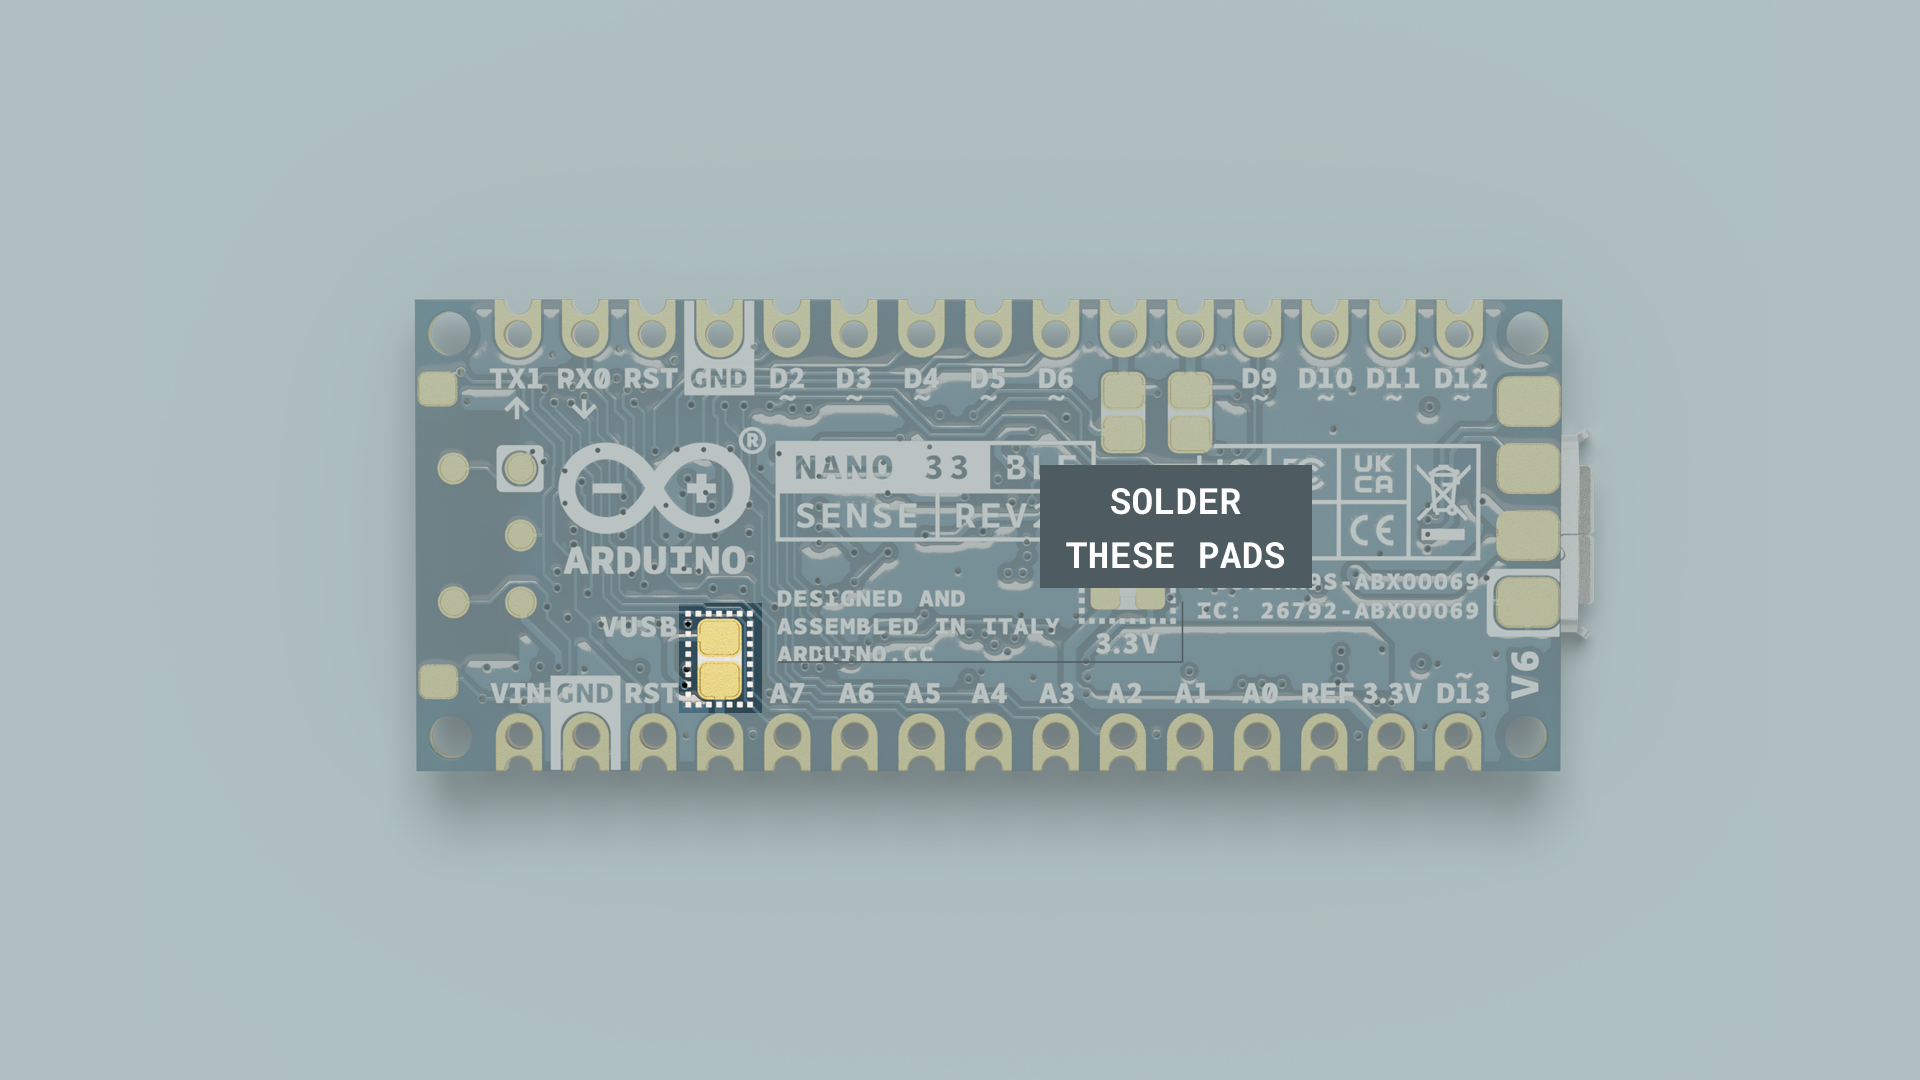
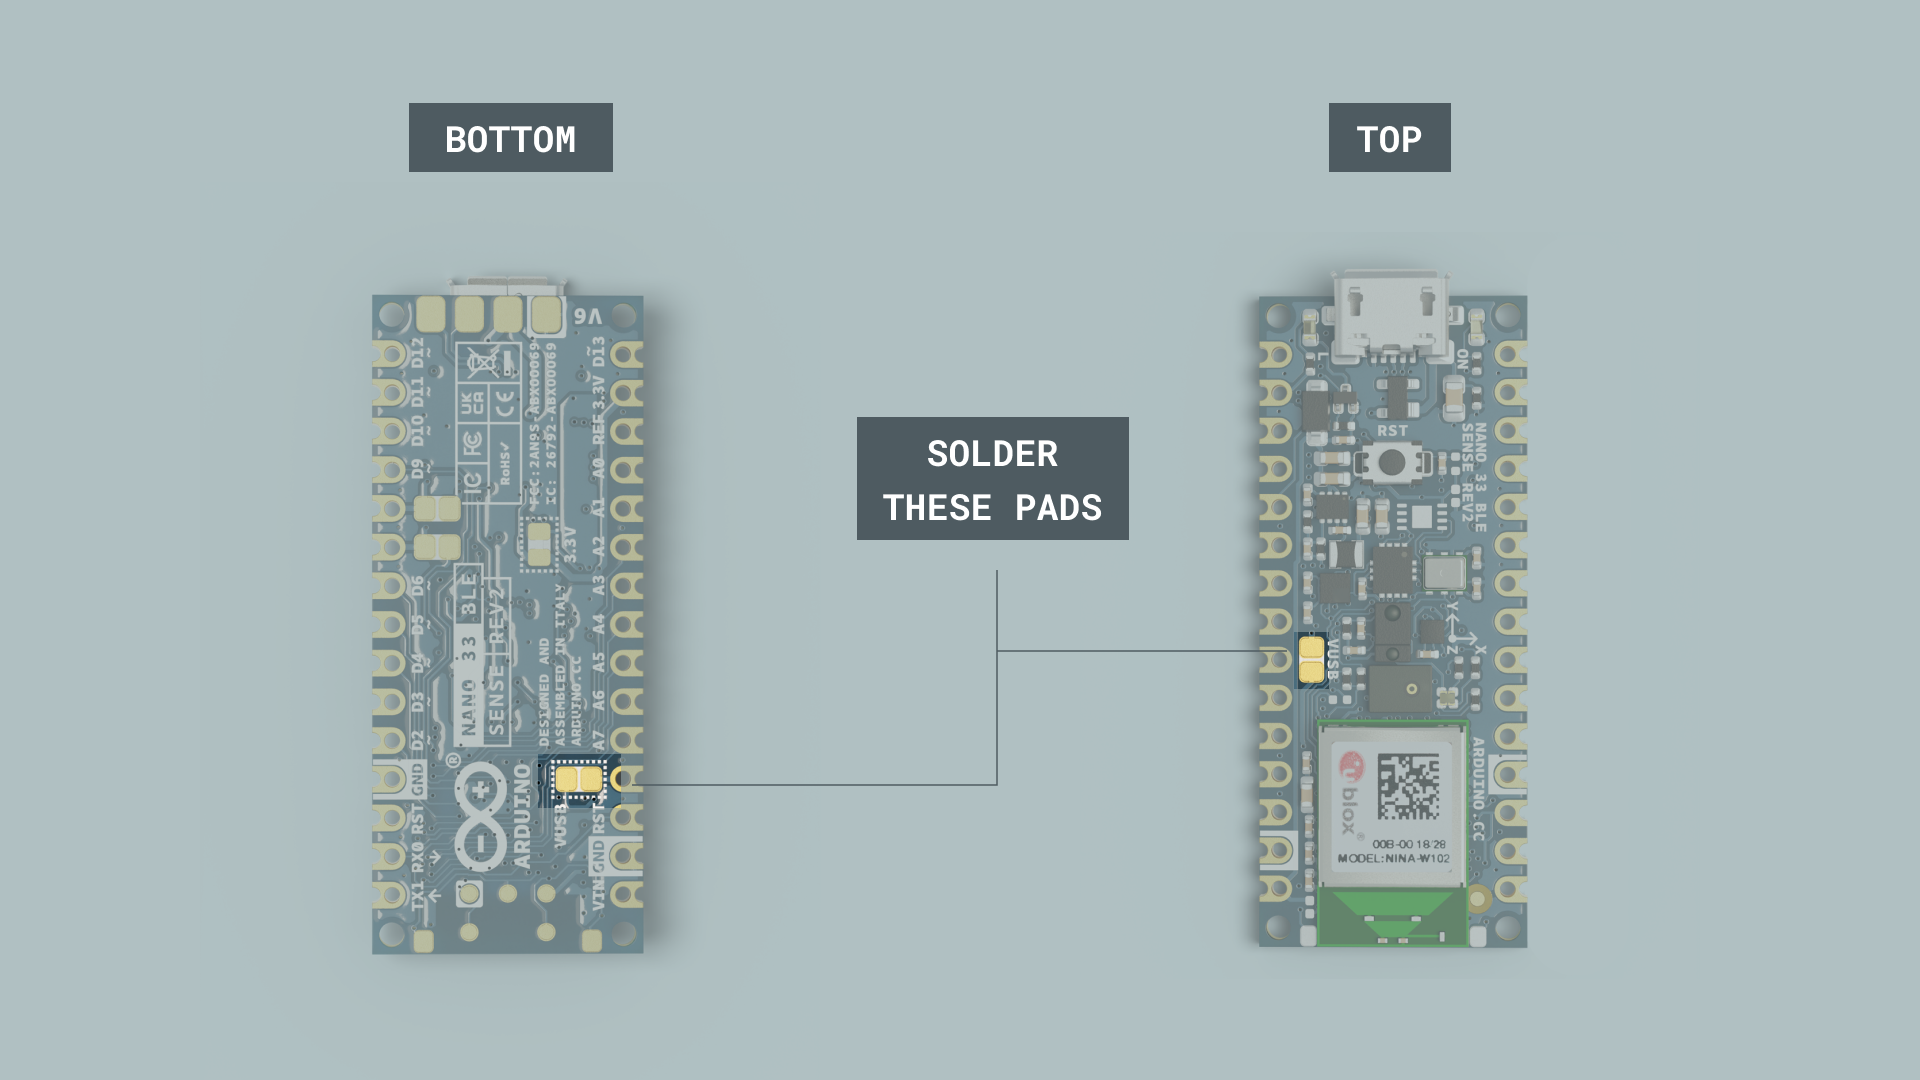
Hotfixes for Nano ble sense rev2 launch

Changed region(s): [[0.1875, 0.2444, 0.8438, 0.8861], [0.1875, 0.0917, 0.3438, 0.1833], [0.6875, 0.0917, 0.7812, 0.1833]]

diff --git a/content/hardware/03.nano/boards/nano-33-ble-sense-rev2/tutorials/microphone-sensor/microphone_sensor.md b/content/hardware/03.nano/boards/nano-33-ble-sense-rev2/tutorials/microphone-sensor/microphone_sensor.md
@@ -1,0 +1,255 @@
+---
+title: 'Controlling the On-Board RGB LED with Microphone'
+difficulty: intermediate
+compatible-products: [nano-33-ble-sense-rev2]
+description: 'Learn how to create a soundmeter using the built-in microphone on the Nano 33 BLE Sense Rev2.'
+tags:
+  - Microphone
+  - Sound
+  - Sensor
+author: 'Fabricio Troya'
+libraries: 
+  - name: Arduino PDM
+    url: https://www.arduino.cc/en/Reference/PDM
+hardware:
+  - hardware/03.nano/boards/nano-33-ble-sense
+software:
+  - web-editor
+  - ide-v1
+  - ide-v2
+featuredImage: 'chip'
+---
+
+In this tutorial we will use an **Arduino Nano 33 BLE Sense Rev2** board to measure and display the sound values of your surroundings, made possible by the embedded **MP34DT06JTR** sensor.
+
+> **Warning:** A very small percentage of people may experience a seizure when exposed to flashing lights or patterns. Even people who have no history of seizures or epilepsy may have an undiagnosed condition that can cause these “photosensitive epileptic seizures” while watching lights blinking fast. **Immediately stop and consult a doctor if you experience any symptoms.**
+
+
+## Goals
+
+The goals of this project are:
+
+- Learn how to output raw sensor data from the Arduino Nano 33 BLE Sense Rev2.
+- Use the PDM(Pulse-density modulation) library.
+- Print sound values in the Serial Monitor.
+- Create your own RGB sound meter.
+
+
+
+## Hardware & Software Needed
+* Arduino Nano 33 BLE Sense Rev2.
+* This project uses no external sensors or components.
+* In this tutorial we will use the [Arduino Web Editor](https://create.arduino.cc/editor) to program the board.
+
+
+
+## The MP34DT06JTR Sensor
+
+![The MP34DT06JTR microphone sensor.](assets/nano33BS_08_sensor.png)
+
+Microphones are components that convert physical sound into digital data. Microphones are commonly used in mobile terminals, speech recognition systems or even gaming and virtual reality input devices.
+
+The MP34DT06JTR sensor is a ultra-compact microphone that use PDM (Pulse-Density Modulation) to represent an analog signal with a binary signal. The sensor's range of different values are the following:
+
+- Signal-to-noise ratio: 64dB
+- Sensitivity: -26dBFS ±3dB
+- Temperature range: -40 to 85°C
+
+If you want to read more about the MP34DT06JTR sensor you can take a look at the <a href="https://docs.arduino.cc/resources/datasheets/MP34DT06JTR.pdf" target="_blank">datasheet</a>.
+
+
+
+## Creating the Program
+
+**1. Setting up**
+
+Let's start by opening the [Arduino Web Editor](https://create.arduino.cc/editor), click on the **Libraries** tab, search for the **PDM FOR MBED** library, then in **Examples**, open the **PDMSerialPlotter** example. Once the sketch is open, rename it as **Sound_Meter**.
+
+![Finding the library in the Web Editor.](assets/nano33BS_08_library.png)
+
+**2. Connecting the board**
+
+Now, connect the Arduino Nano 33 BLE Sense Rev2 to the computer to check that the Web Editor recognizes it, if so, the  board and port should appear as shown in the image. If they don't appear, follow the [instructions](https://create.arduino.cc/getting-started/plugin/welcome) to install the plugin that will allow the Editor to recognize your board.
+
+![Selecting the board.](assets/nano33BS_08_board_port.png)
+
+
+**3. Printing and displaying sound values**
+
+Now we will need to modify the code of the example, in order to print the sound values and turn on a different LED based how noisy is the sound.
+
+Before the `setup()` there are two types of variables initialized. One is a `short` variable and the other is a `volatile int` variable. We use the `short` type variable to store 16-bit data-types as the `sampleBuffer[256]`. The other, `volatile`, is a keyword known as a variable qualifier. It is usually used before the datatype of a variable, in order to modify the way in which the compiler and subsequent program treat the variable. In this case, it directs the compiler to load the variable `samplesRead` from RAM and not from a storage register.
+
+```arduino
+#include <PDM.h>
+
+// buffer to read samples into, each sample is 16-bits
+short sampleBuffer[256];
+
+// number of samples read
+volatile int samplesRead;
+```
+
+In the `setup()`, we use the `PDM.conReceive()` function to configure the data receive callback. Lastly, the `PDM.begin()` sets the sensor to read data from just one channel and a sample rate of 16 kHz, this statement is inside an `if()` that will print a message, as a string, in case the sensor has not been properly initialized.
+
+```arduino
+void setup() {
+  Serial.begin(9600);
+  while (!Serial);
+
+  // configure the data receive callback
+  PDM.onReceive(onPDMdata);
+
+  // optionally set the gain, defaults to 20
+  // PDM.setGain(30);
+
+  // initialize PDM with:
+  // - one channel (mono mode)
+  // - a 16 kHz sample rate
+  if (!PDM.begin(1, 16000)) {
+    Serial.println("Failed to start PDM!");
+    while (1);
+  }
+}
+```
+
+Then, in the `loop()`, let's modify the example code by adding the following portion of code inside the `for()` loop, after the `Serial.println()` function.
+
+```arduino
+// check if the sound value is higher than 500
+     if (sampleBuffer[i]>=500){
+       digitalWrite(LEDR,LOW);
+       digitalWrite(LEDG,HIGH);
+       digitalWrite(LEDB,HIGH);
+     }
+     // check if the sound value is higher than 250 and lower than 500
+     if (sampleBuffer[i]>=250 && sampleBuffer[i] < 500){
+       digitalWrite(LEDB,LOW);
+       digitalWrite(LEDR,HIGH);
+       digitalWrite(LEDG,HIGH);
+     }
+     //check if the sound value is higher than 0 and lower than 250
+     if (sampleBuffer[i]>=0 && sampleBuffer[i] < 250){
+       digitalWrite(LEDG,LOW);
+       digitalWrite(LEDR,HIGH);
+       digitalWrite(LEDB,HIGH);
+     }
+```
+
+With this portion of the code, we will turn on the RGB LED based on the amount of sound that the microphones is receiving.
+
+**4. Complete code**
+
+If you choose to skip the code building section, the complete code can be found below:
+
+```arduino
+/*
+  This example reads audio data from the on-board PDM microphones, and prints
+  out the samples to the Serial console. The Serial Plotter built into the
+  Arduino IDE can be used to plot the audio data (Tools -> Serial Plotter)
+
+  Circuit:
+  - Arduino Nano 33 BLE Sense Rev2 board
+
+  This example code is in the public domain.
+*/
+
+#include <PDM.h>
+
+// buffer to read samples into, each sample is 16-bits
+short sampleBuffer[256];
+
+// number of samples read
+volatile int samplesRead;
+
+void setup() {
+  Serial.begin(9600);
+  while (!Serial);
+
+  // configure the data receive callback
+  PDM.onReceive(onPDMdata);
+
+  // optionally set the gain, defaults to 20
+  // PDM.setGain(30);
+
+  // initialize PDM with:
+  // - one channel (mono mode)
+  // - a 16 kHz sample rate
+  if (!PDM.begin(1, 16000)) {
+    Serial.println("Failed to start PDM!");
+    while (1);
+  }
+}
+
+void loop() {
+  // wait for samples to be read
+  if (samplesRead) {
+
+    // print samples to the serial monitor or plotter
+    for (int i = 0; i < samplesRead; i++) {
+      Serial.println(sampleBuffer[i]);
+      // check if the sound value is higher than 500
+      if (sampleBuffer[i]>=500){
+        digitalWrite(LEDR,LOW);
+        digitalWrite(LEDG,HIGH);
+        digitalWrite(LEDB,HIGH);
+      }
+      // check if the sound value is higher than 250 and lower than 500
+      if (sampleBuffer[i]>=250 && sampleBuffer[i] < 500){
+        digitalWrite(LEDB,LOW);
+        digitalWrite(LEDR,HIGH);
+        digitalWrite(LEDG,HIGH);
+      }
+      //check if the sound value is higher than 0 and lower than 250
+      if (sampleBuffer[i]>=0 && sampleBuffer[i] < 250){
+        digitalWrite(LEDG,LOW);
+        digitalWrite(LEDR,HIGH);
+        digitalWrite(LEDB,HIGH);
+      }
+    }
+
+    // clear the read count
+    samplesRead = 0;
+  }
+}
+
+void onPDMdata() {
+  // query the number of bytes available
+  int bytesAvailable = PDM.available();
+
+  // read into the sample buffer
+  PDM.read(sampleBuffer, bytesAvailable);
+
+  // 16-bit, 2 bytes per sample
+  samplesRead = bytesAvailable / 2;
+}
+```
+
+
+
+## Testing It Out
+
+After you have successfully verified and uploaded the sketch to the board, open the Serial Monitor from the menu on the left. You will now see the new values printed.
+
+![Microphone data in the Serial Monitor.](assets/nano33BS_08_printing_values.png)
+
+If you want to test it, the only thing you need to do is to place the board next to a speaker and play some music to see how the colors of the RGB LED change based on the music.
+
+![RGB LED blinking according to the music.](assets/nano33BS_08_testing.png)
+
+**Warning:** Remember that depending of the music, lights might blink too fast. **Immediately stop playing and consult a doctor if you experience any symptoms of “photosensitive epileptic seizures”.**
+
+
+### Troubleshoot
+
+Sometimes errors occur, if the project is not working as intended there are some common issues we can troubleshoot:
+- Missing a bracket or a semicolon.
+- If your Arduino board is not recognized, check that the Create plugin is running properly on your computer.
+- Accidental interruption of cable connection.
+- The sound of the music is too low or the board is too far from the speaker.
+
+
+## Conclusion
+
+In this simple tutorial we learned how to read sound values from the **MP34DT06JTR** sensor using the [PDM library](https://github.com/arduino/ArduinoCore-nRF528x-mbedos/tree/master/libraries/PDM), and how to use the sensor embedded in the Arduino Nano 33 BLE Sense Rev2 board in order to print out sound values from the environment and visualize them through the RGB LED.
+

diff --git a/content/hardware/03.nano/boards/nano-33-ble-sense-rev2/essentials.md b/content/hardware/03.nano/boards/nano-33-ble-sense-rev2/essentials.md
@@ -3,8 +3,8 @@
     All you need to know to get started with your new Arduino board.
   </EssentialElement>
 
-  <EssentialElement title="BLE Sense Cheat Sheet" type="tutorial" link="/tutorials/nano-33-ble-sense-rev2/cheat-sheet">
-    Learn about the Nano 33 BLE Sense's onboard sensors, supported serial & wireless protocols, pins and much more.
+  <EssentialElement title="BLE Sense Rev2 Cheat Sheet" type="tutorial" link="/tutorials/nano-33-ble-sense-rev2/cheat-sheet">
+    Learn about the Nano 33 BLE Sense Rev2's onboard sensors, supported serial & wireless protocols, pins and much more.
   </EssentialElement>
 
   <EssentialElement title="Nano Hardware Design Guide" type="tutorial" link="/learn/hardware/nano-pcb-guide">
@@ -12,7 +12,7 @@
   </EssentialElement>
 
   <EssentialElement title="Community Projects" type="tutorial" link="/tutorials/nano-33-ble-sense-rev2/community-projects">
-    Discover interesting projects from the community based on the Nano 33 BLE Sense board.
+    Discover interesting projects from the community based on the Nano 33 BLE Sense Rev2 board.
   </EssentialElement>
 
 </EssentialsColumn>
@@ -32,11 +32,11 @@ The HS300x library is designed for reading temperature and humidity values from 
   </EssentialElement>
 
   <EssentialElement title="PDM" type="library" link="https://www.arduino.cc/en/Reference/PDM">
-The PDM library allows you to use PDM (Pulse-density modulation) microphones, like the MP34DT05 onboard the Arduino Nano 33 BLE Sense.
+The PDM library allows you to use PDM (Pulse-density modulation) microphones, like the MP34DT06JTR onboard the Arduino Nano 33 BLE Sense Rev2.
   </EssentialElement>
 
   <EssentialElement title="Arduino_APDS9960" type="library" link="https://www.arduino.cc/en/Reference/ArduinoAPDS9960">
-The Arduino_APDS9960 library allows you to use the APDS9960 sensor available on the Arduino Nano 33 BLE Sense to read gestures, color, light intensity and proximity.
+The Arduino_APDS9960 library allows you to use the APDS9960 sensor available on the Arduino Nano 33 BLE Sense Rev2 to read gestures, color, light intensity and proximity.
   </EssentialElement>
 
 </EssentialsColumn>

diff --git a/content/hardware/03.nano/boards/nano-33-ble-sense-rev2/tutorials/cheat-sheet/ble-cheat-sheet.md b/content/hardware/03.nano/boards/nano-33-ble-sense-rev2/tutorials/cheat-sheet/ble-cheat-sheet.md
@@ -137,7 +137,7 @@ The microcontroller on the Arduino Nano 33 BLE Sense Rev2 runs at 3.3V, which me
 
 To avoid such risk with existing projects, where you should be able to pull out a Nano and replace it with the new Nano 33 BLE Sense, we have the 5V pin on the header, positioned between RST and A7 that is not connected as default factory setting. This means that if you have a design that takes 5V from that pin, it won't work immediately, as a precaution we put in place to draw your attention to the 3.3V compliance on digital and analog inputs.
 
-5V on that pin is available only when two conditions are met: you make a solder bridge on the two pads marked as VUSB and you power the Nano 33 BLE Sense Rev2 through the USB port. If you power the board from the VIN pin, you won't get any regulated 5V and therefore even if you do the solder bridge, nothing will come out of that 5V pin. The 3.3V, on the other hand, is always available and supports enough current to drive your sensors. Please make your designs so that sensors and actuators are driven with 3.3V and work with 3.3V digital IO levels. 5V is now an option for many modules and 3.3V is becoming the standard voltage for electronic ICs.
+5V on that pin is available only when two conditions are met: you make a solder bridge on the two pads marked as VUSB and you power the Nano 33 BLE Sense Rev2 through the USB port. There are two sets of VUSB pads on the Arduino Nano 33 BLE Sense Rev2, one set on the bottom and one set on top. To enable the 5V Pin, either one of these need to be connected If you power the board from the VIN pin, you won't get any regulated 5V and therefore even if you do the solder bridge, nothing will come out of that 5V pin. The 3.3V, on the other hand, is always available and supports enough current to drive your sensors. Please make your designs so that sensors and actuators are driven with 3.3V and work with 3.3V digital IO levels. 5V is now an option for many modules and 3.3V is becoming the standard voltage for electronic ICs.
 
 ![Soldering the VUSB pins.](assets/Nano33_ble_sense_vusb.png)
 

diff --git a/content/hardware/03.nano/boards/nano-33-ble-sense-rev2/features.md b/content/hardware/03.nano/boards/nano-33-ble-sense-rev2/features.md
@@ -1,6 +1,6 @@
 <FeatureDescription>
 
-The Arduino Nano 33 BLE Sense Rev2 is a great choice for any beginner, maker or professional to get started with embedded machine learning. It is build upon the [nRF52840 microcontroller](https://content.arduino.cc/assets/Nano_BLE_MCU-nRF52840_PS_v1.1.pdf) and runs on **Arm® Mbed™ OS**. The Nano 33 BLE Sense not only features the possibility to connect via **Bluetooth® Low Energy** but also comes equipped with **sensors** to detect color, proximity, motion, temperature, humidity, audio and more.
+The Arduino Nano 33 BLE Sense Rev2 is a great choice for any beginner, maker or professional to get started with embedded machine learning. It is build upon the [nRF52840 microcontroller](https://content.arduino.cc/assets/Nano_BLE_MCU-nRF52840_PS_v1.1.pdf) and runs on **Arm® Mbed™ OS**. The Nano 33 BLE Sense Rev2 not only features the possibility to connect via **Bluetooth® Low Energy** but also comes equipped with **sensors** to detect color, proximity, motion, temperature, humidity, audio and more.
 
 </FeatureDescription>
 
@@ -59,7 +59,7 @@ The Arduino Nano 33 BLE Sense Rev2 is a great choice for any beginner, maker or 
 
 <Feature title="Lauterbach TRACE32 debugger" image="file-icon">
 
-  This board is compatible with Lauterbach TRACE32 debugger, and a free license can be obtained using the boards serial number.
+  This board is compatible with Lauterbach TRACE32 debugger, and a free license can be obtained using the board's serial number.
 
   <FeatureLink title="Learn More" url="/tutorials/nano-33-ble-sense/trace-32"/>
 </Feature>

diff --git a/content/hardware/03.nano/boards/nano-33-ble-sense-rev2/product.md b/content/hardware/03.nano/boards/nano-33-ble-sense-rev2/product.md
@@ -1,7 +1,6 @@
 ---
 title: Nano 33 BLE Sense Rev2
-url_shop: https://store.arduino.cc/arduino-nano-33-ble-sense-rev2
-url_guide: /software/ide-v1/installing-mbed-os-nano-boards
+url_shop: https://store.arduino.cc/nano-33-ble-sense-rev2
 core: arduino:mbed_nano
 forumCategorySlug: '/hardware/nano-family/nano-33-ble-sense-rev2/160'
 certifications: [FCC, IC, REACH, CE, RoHS, WEEE, RCM, UKCA]
